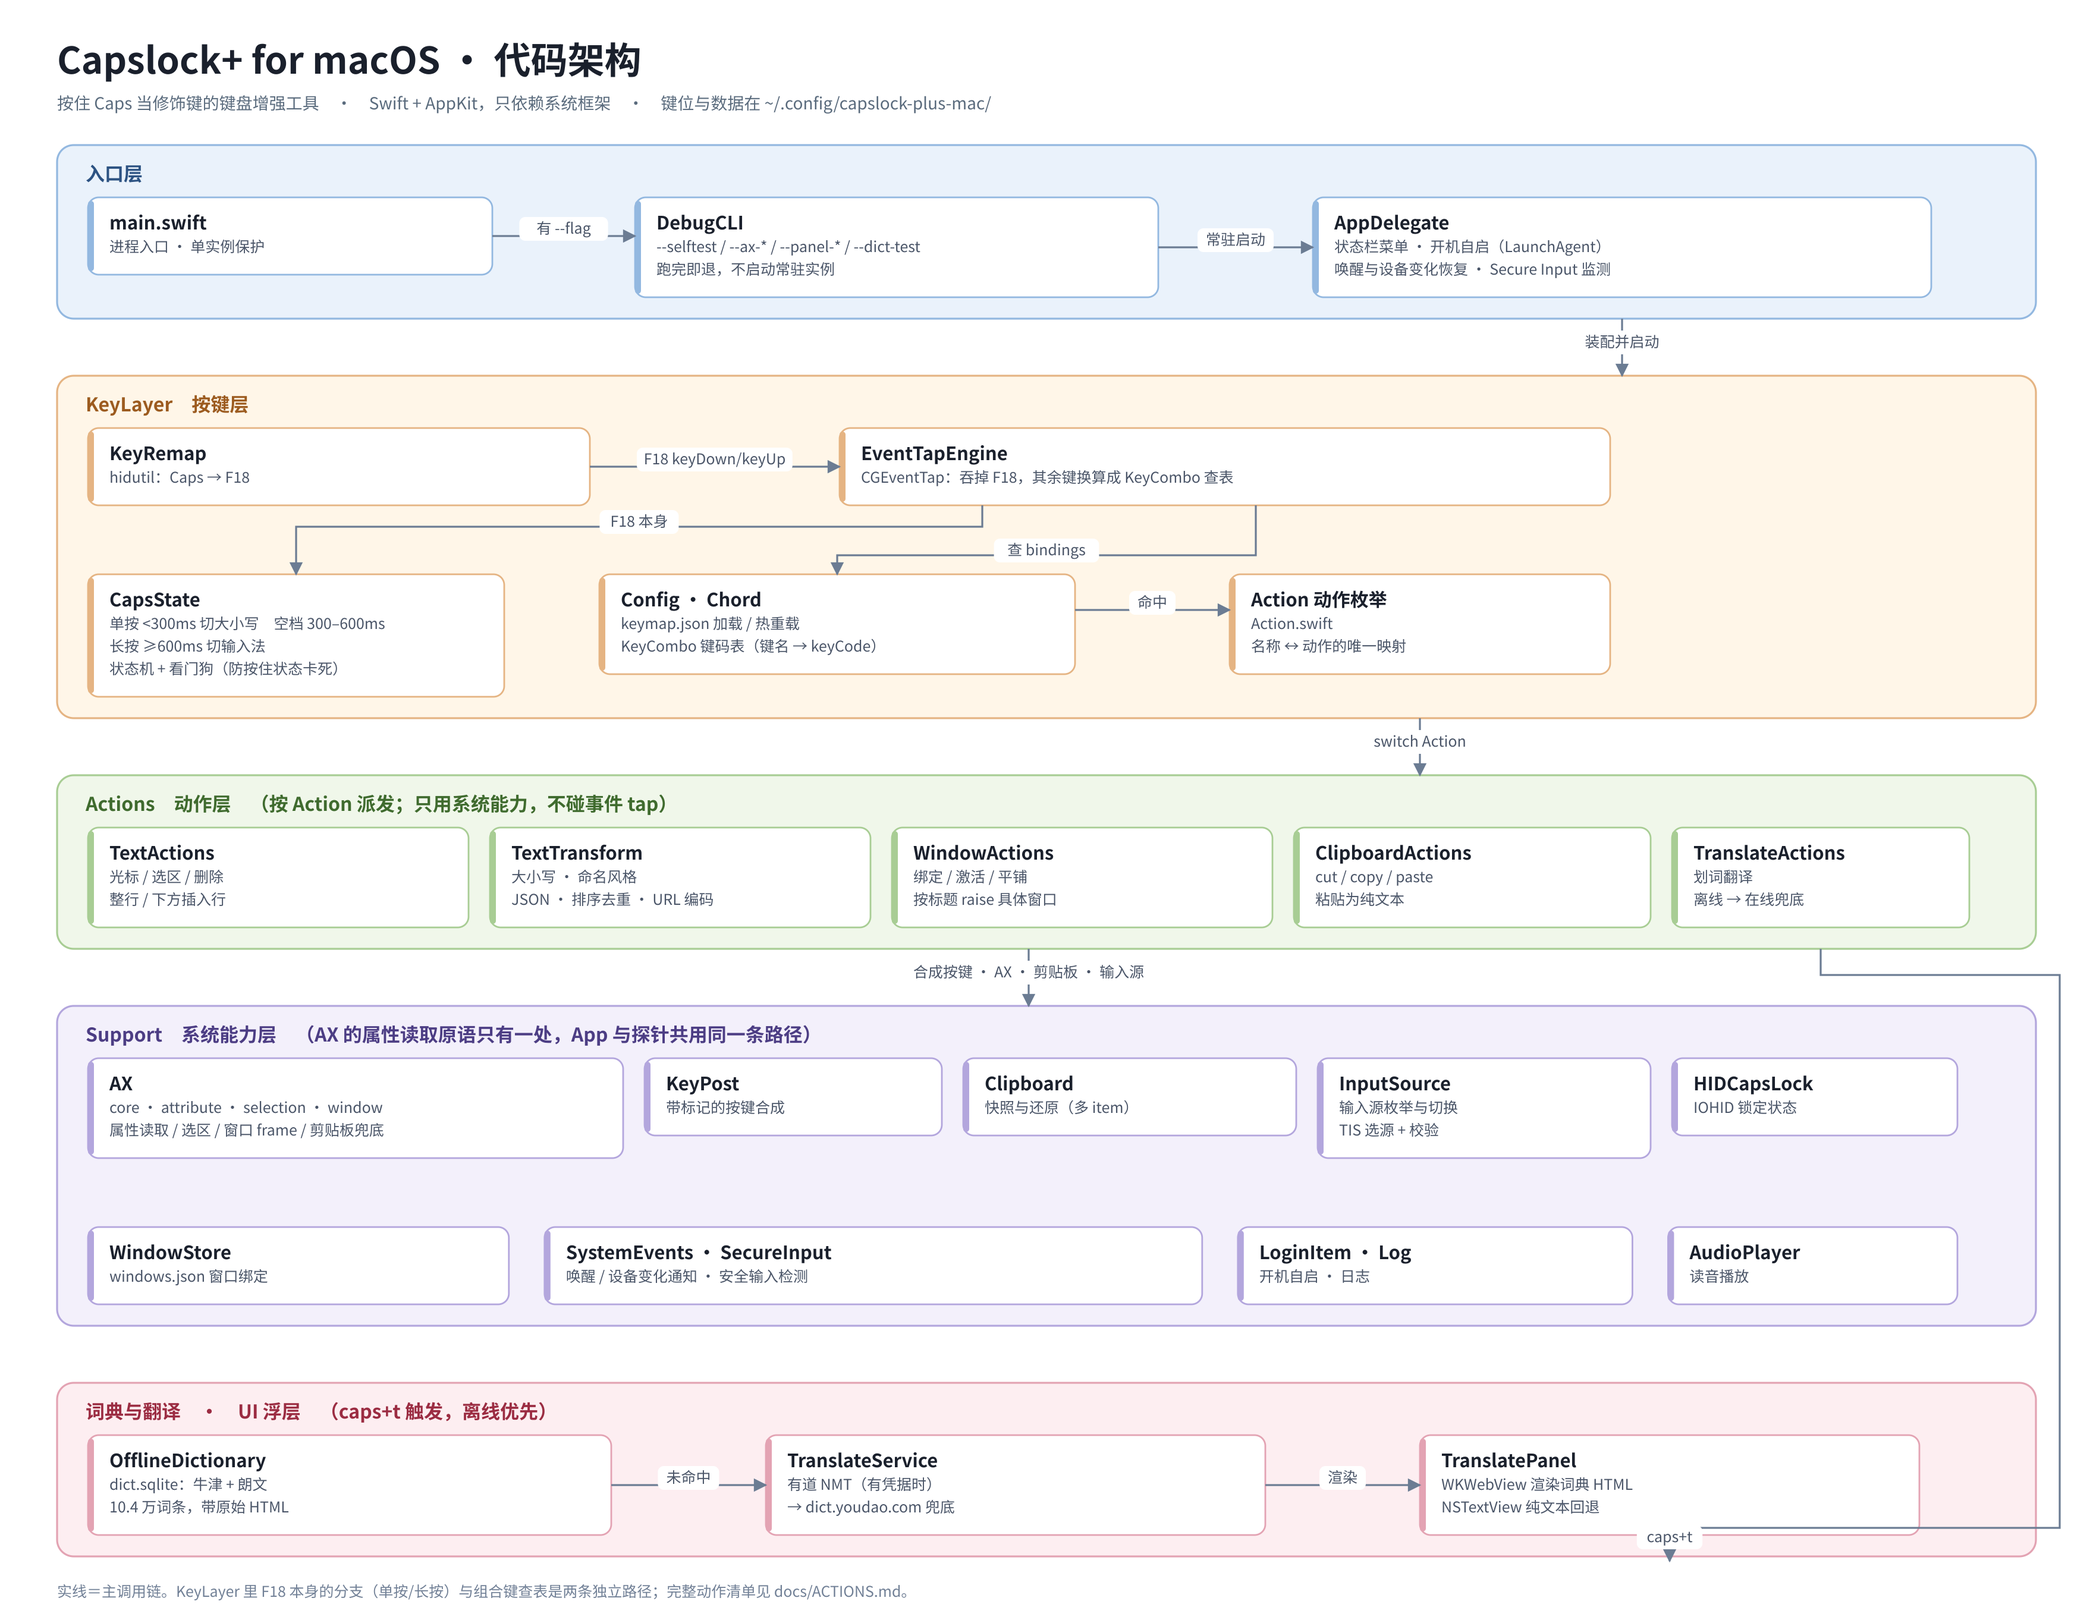
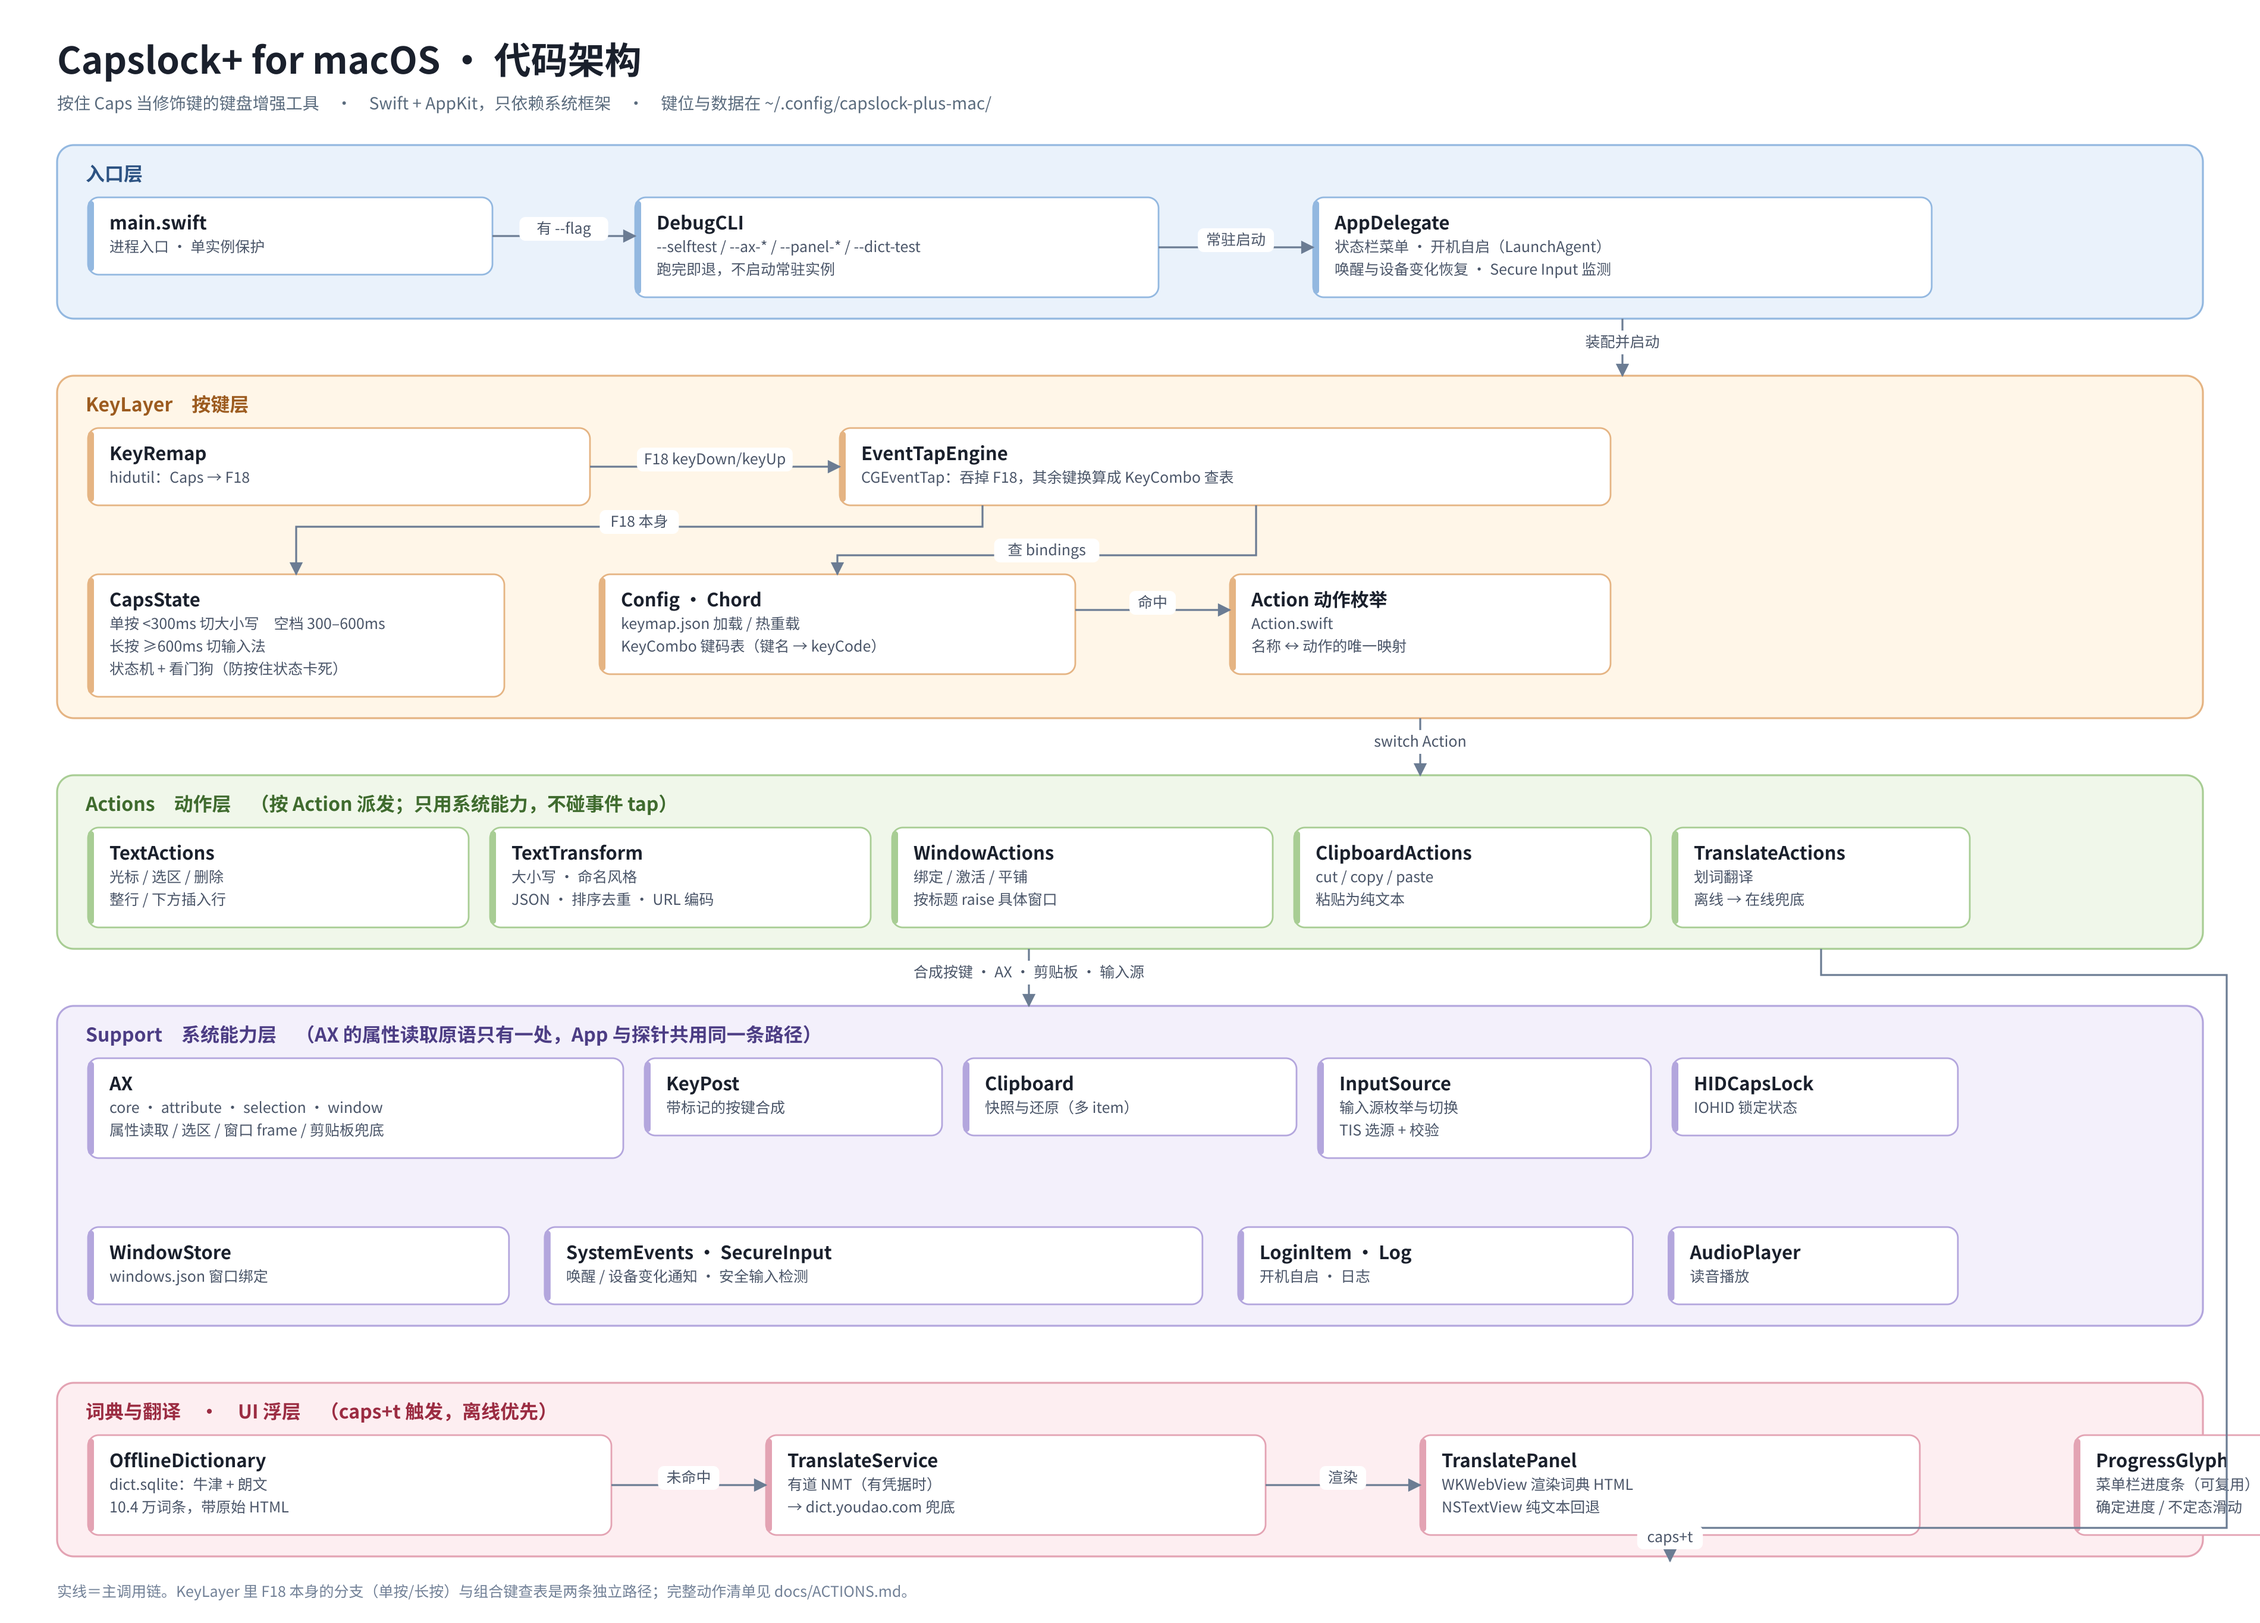
docs: add the progress component to the architecture diagram

diff --git a/scripts/gen-architecture.py b/scripts/gen-architecture.py
@@ -6,7 +6,7 @@
 """
 import subprocess
 
-W = 1760
+W = 1900
 PAD = 48
 FONT = "Noto Sans CJK SC"
 BORDER = "#6b7c93"
@@ -171,7 +171,8 @@ y = b4 + 48
     ("OfflineDictionary", ["dict.sqlite：牛津 + 朗文", "10.4 万词条，带原始 HTML"], 440),
     ("TranslateService", ["有道 NMT（有凭据时）", "→ dict.youdao.com 兜底"], 420),
     ("TranslatePanel", ["WKWebView 渲染词典 HTML", "NSTextView 纯文本回退"], 420),
-]], gaps=[[130, 130]])
+    ("ProgressGlyph", ["菜单栏进度条（可复用）", "确定进度 / 不定态滑动"], 400),
+]], gaps=[[130, 130, 130]])
 dic = p5[0]
 d.arrow(dic[0][0] + dic[0][1], dic[0][2] / 2 + y + TOP, dic[1][0], dic[0][2] / 2 + y + TOP, "未命中")
 d.arrow(dic[1][0] + dic[1][1], dic[1][2] / 2 + y + TOP, dic[2][0], dic[1][2] / 2 + y + TOP, "渲染")
